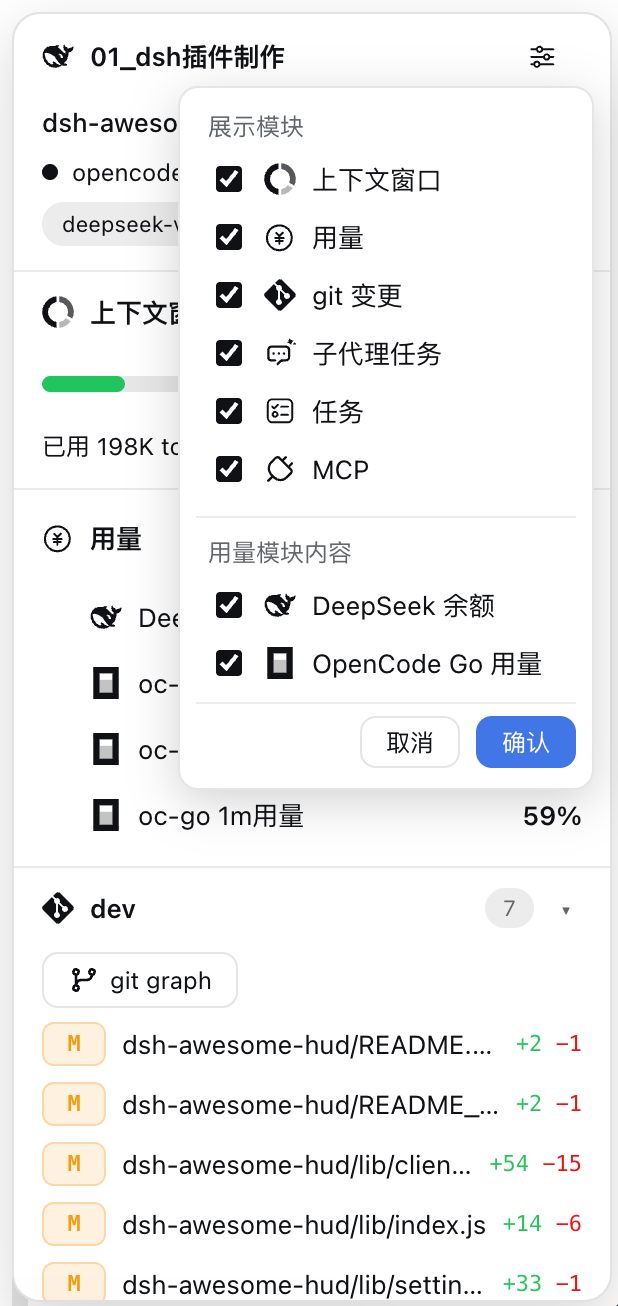
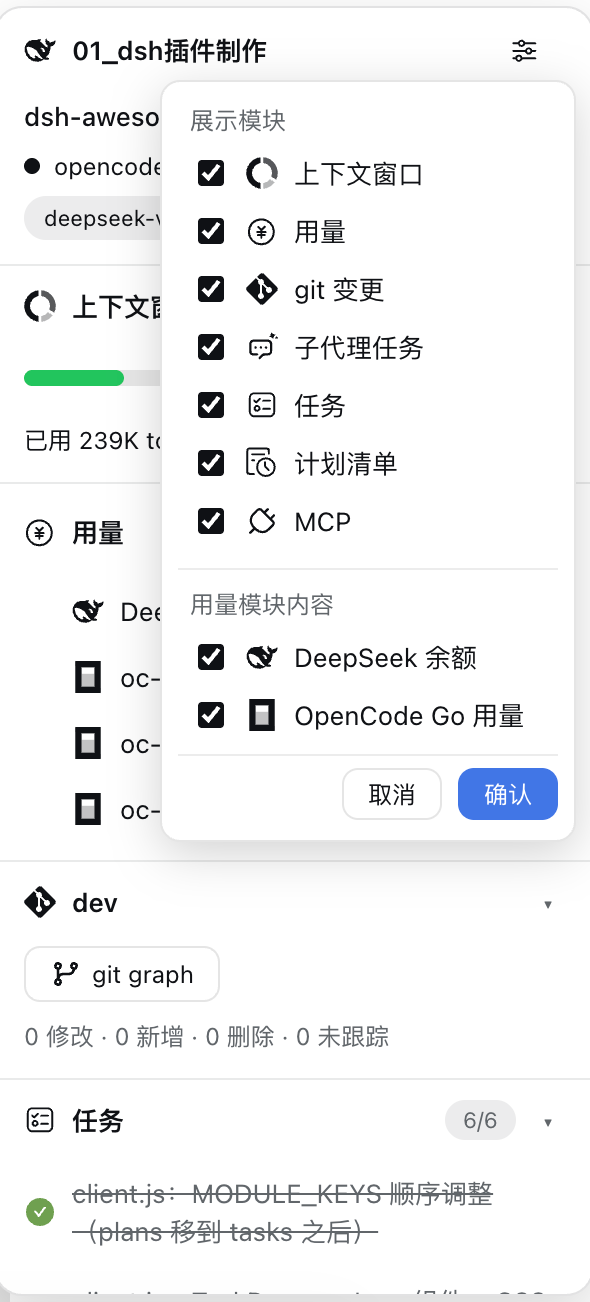
docs: README 截图区重构（各模块预览/其他界面分组），新增「计划清单」模块与内容界面截图，更新设置菜单/用量截图，同步英文版
dsh-awesome-hud v0.5.5：[260830] README 截图区重构（各模块预览/其他界面分组），新增「计划清单」模块与内容界面截图，更新设置菜单/用量截图，同步英文版

diff --git a/README.md b/README.md
@@ -95,41 +95,53 @@ dsh plugin --profile web add dsh-awesome-hud@link:<absolute-path-to-plugin>
 
 ## 🖼 界面截图
 
-### HUD 设置菜单
+### 各模块预览
+
+#### HUD 设置菜单
 
 ![alt text](docs/hud-settings.png)
 
-### 「会话」模块
+#### 「会话」模块
 
 ![alt text](docs/module-session.png)
 
-### 「上下文窗口」模块
+#### 「上下文窗口」模块
 
 ![alt text](docs/module-context.png)
 
-### 「用量」模块
+#### 「用量」模块
 
 ![alt text](docs/module-usage.png)
 
-### 「git变更」模块
+#### 「git变更」模块
 
 ![alt text](docs/module-git.png)
 
-### 「子代理任务」模块
+#### 「子代理任务」模块
 
 ![alt text](docs/module-subagents.png)
 
-### 「任务」模块
+#### 「任务」模块
 
 ![alt text](docs/module-tasks.png)
 
-### 「MCP」模块
+#### 「计划清单」模块
+
+![alt text](docs/module-plan-list.png)
+
+#### 「MCP」模块
 
 ![alt text](docs/module-mcp.png)
 
-### 「git graph」界面
+### 其他界面
+
+#### 「git graph」界面
 
 ![alt text](docs/git-graph.png)
+
+#### 「计划清单」界面
+
+![alt text](docs/plan-content.png)
 
 ## ⚙ 兼容性
 

diff --git a/README_en.md b/README_en.md
@@ -95,41 +95,53 @@ After installation, a "HUD panel" button appears at the top-right of the chat pa
 
 ## 🖼 Screenshots
 
-### HUD Settings
+### Module Previews
+
+#### HUD Settings
 
 ![alt text](docs/hud-settings.png)
 
-### Session module
+#### Session module
 
 ![alt text](docs/module-session.png)
 
-### Context window module
+#### Context window module
 
 ![alt text](docs/module-context.png)
 
-### Usage module
+#### Usage module
 
 ![alt text](docs/module-usage.png)
 
-### git changes module
+#### git changes module
 
 ![alt text](docs/module-git.png)
   
-### Subagents module
+#### Subagents module
 
 ![alt text](docs/module-subagents.png)
 
-### Tasks module
+#### Tasks module
 
 ![alt text](docs/module-tasks.png)
 
-### MCP module
+#### Plan list module
+
+![alt text](docs/module-plan-list.png)
+
+#### MCP module
 
 ![alt text](docs/module-mcp.png)
 
-### git graph interface
+### Other interfaces
+
+#### git graph interface
 
 ![alt text](docs/git-graph.png)
+
+#### Plan content interface
+
+![alt text](docs/plan-content.png)
 
 ## ⚙ Compatibility
 
